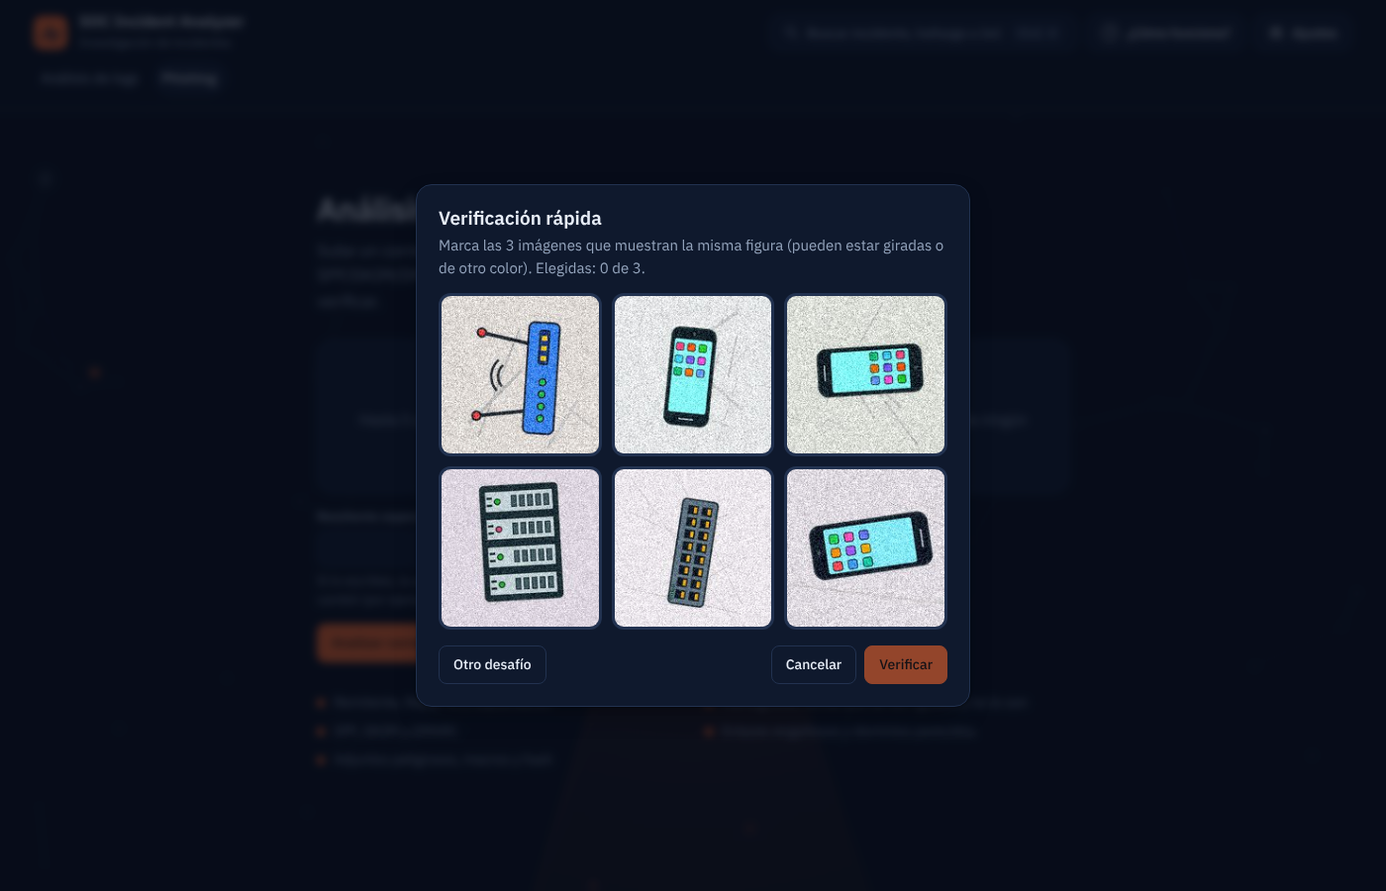
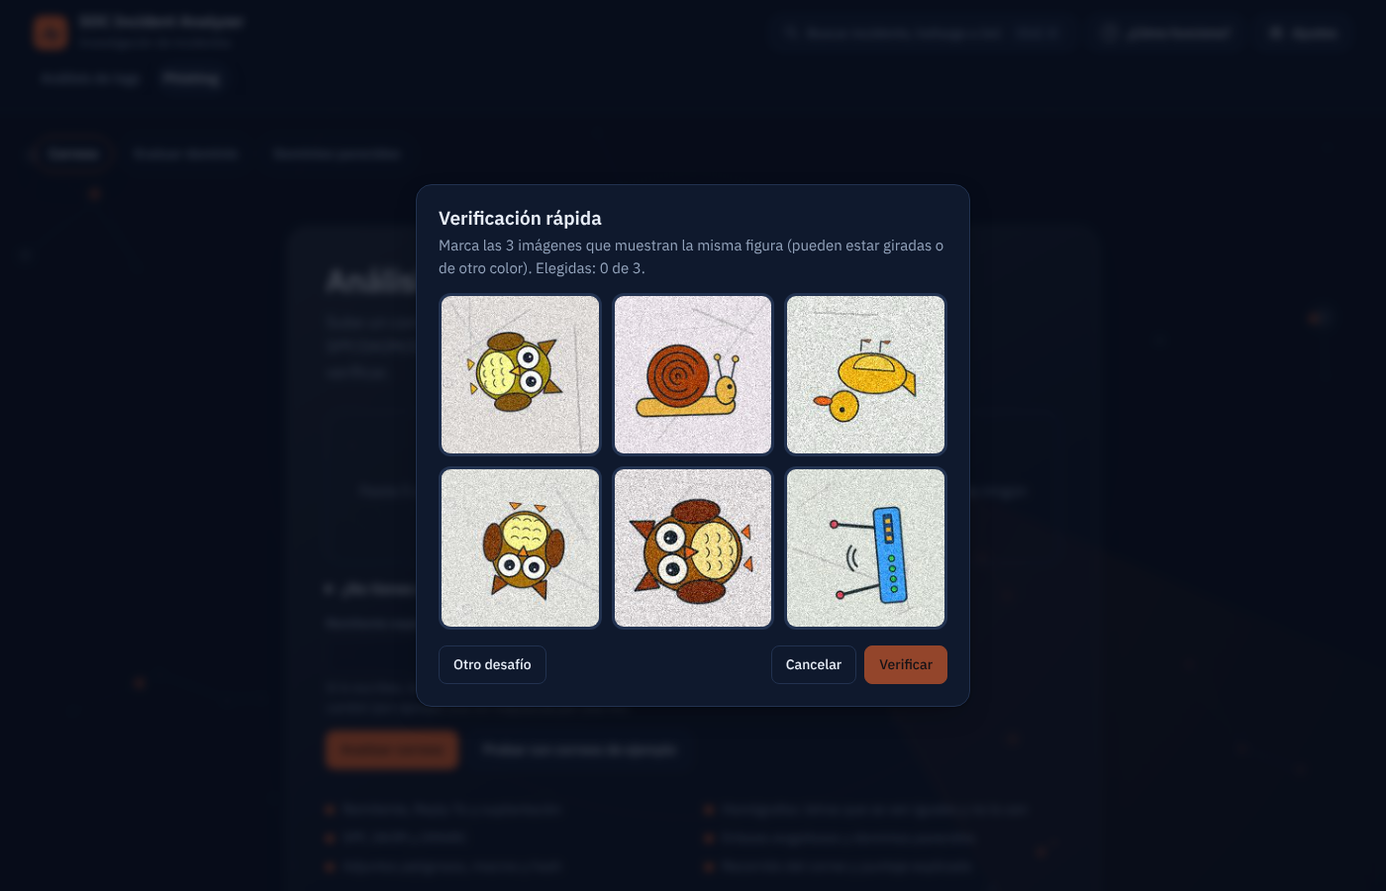
Add files via upload

diff --git a/README.md b/README.md
@@ -19,32 +19,9 @@ Proyecto personal, hecho para practicar el análisis de incidentes. Lo desarroll
 
 ## Cómo funciona
 
-1. **Motor de reglas determinista** (`backend/detection.py`, `detection_generic.py`): fuerza bruta y password spraying, movimiento lateral, escalamiento de privilegios, persistencia, LSASS, DCSync, Kerberoasting, exfiltración, evasión de defensas, ataques web y más; para Windows (por Event ID) y para otras fuentes (SSH, web, DNS, cloud).
+Un motor de reglas determinista detecta fuerza bruta, movimiento lateral, escalamiento de privilegios, persistencia, exfiltración, ataques web y más (Windows, SSH, web, DNS y nube). Cada hallazgo cita los `Log_ID` que lo sustentan, se agrupa en incidentes y se mapea a MITRE ATT&CK, con consultas para tu SIEM (Splunk, Sentinel, Sigma) y un informe en PDF o HTML. La IA y la reputación son opcionales y nunca cambian la criticidad. Detalle de cada parte: [docs/DESARROLLO.md](docs/DESARROLLO.md#cómo-funciona-detalle).
 
-2. Cada hallazgo cita los `Log_ID` que lo sustentan y explica por qué tiene esa criticidad.
-
-3. **Correlación**: los hallazgos se agrupan en incidentes cuando comparten IP externa o cuenta de actor.
-
-4. **IA (Claude, OpenAI, Gemini u Ollama local)** (`backend/ai.py`, `backend/ai_cloud.py`, `backend/ai_local.py`, opcional): solo redacta; no puede cambiar la criticidad y un verificador descarta lo inventado. Se elige el proveedor en la pestaña Informe. Sin clave ni Ollama, el informe usa plantillas.
-
-5. **PDF** (`backend/report.py`): resumen ejecutivo, hallazgos, evidencia, impacto, plan de acción y recomendaciones.
-6. **Informe HTML** (`backend/report_html.py`): el mismo contenido en un solo archivo que se abre sin conexión, con gráficos y animaciones (ver [Informe HTML](#informe-html)).
-
-6. **Reputación (opcional)** (`backend/intel.py`): VirusTotal y AbuseIPDB, solo con tu confirmación. Ver [más abajo](#reputación-de-ip-y-dominios-virustotal-y-abuseipdb) y [docs/REPUTACION.md](docs/REPUTACION.md).
-
-7. **MITRE ATT&CK** (`backend/attack.py`): técnicas con nombre oficial, matriz por táctica y capa para ATT&CK Navigator. Sin Internet.
-
-8. **Consultas para tu SIEM** (`backend/siemqueries.py`): Splunk (SPL), Sentinel (KQL) y reglas Sigma para los hallazgos de Windows; para SSH, web, DNS, Linux y nube, reglas Sigma.
-
-9. **Phishing** (`backend/phishing.py`): análisis estático de `.eml` (remitente, SPF/DKIM/DMARC, enlaces, homógrafos, adjuntos, ClickFix) con veredicto y puntaje.
-
-10. **Verificar el remitente en DNS** (opcional): comprueba SPF, clave DKIM y política DMARC con el DNS de hoy y lo compara con las cabeceras.
-
-Detalle de cada punto en [docs/DESARROLLO.md](docs/DESARROLLO.md#cómo-funciona-detalle).
-
-## Formatos de entrada
-
-Acepta Excel (`.xlsx`, `.xlsm`), CSV/TSV, JSON, NDJSON (también el formato de Splunk y las respuestas de Elasticsearch/OpenSearch) y `auth.log` de Linux en texto. Reconoce las columnas por nombre aunque cambie el idioma o el esquema (incluido Elastic ECS), y solo exige `Timestamp` y `Event_ID`. Tabla de formatos, columnas, marcas de tiempo y cada ejemplo de `sample_data/`: [docs/FORMATOS.md](docs/FORMATOS.md).
+Acepta Excel, CSV/TSV, JSON/NDJSON y `auth.log` de Linux; solo exige `Timestamp` y `Event_ID`. Formatos y ejemplos: [docs/FORMATOS.md](docs/FORMATOS.md).
 
 ## Resultado con el Excel de ejemplo
 
@@ -67,9 +44,9 @@ Las IP y los datos del ejemplo son sintéticos (rangos de documentación RFC 573
 
 ![Recorrido por el análisis de logs: panel, incidentes, hallazgos, eventos, indicadores e informe](img/gif/logs-demo.gif)
 
-**Phishing: análisis de correos de ejemplo, detalle con homógrafos y descarga del informe**
+**Phishing: análisis de correos de ejemplo, detalle con homógrafos y descarga del informe HTML**
 
-![Recorrido por el análisis de phishing: carga, tabla de correos, detalle del correo y desglose de caracteres](img/gif/phishing-demo.gif)
+![Recorrido por el análisis de phishing: carga, tabla de correos, detalle, desglose de caracteres y descarga del informe HTML](img/gif/phishing-demo.gif)
 
 **Evaluar dominio: nota de A a F con lo que resta cada comprobación (SPF, DKIM y DMARC)**
 
@@ -80,11 +57,9 @@ Las IP y los datos del ejemplo son sintéticos (rangos de documentación RFC 573
 ![Generación de variantes de un dominio y comprobación de registro en el DNS](img/gif/parecidos-demo.gif)
 
 <details>
-<summary>Ver los informes HTML generados (logs y phishing)</summary>
+<summary>Ver el informe HTML del análisis de logs</summary>
 
 ![Descarga del informe HTML del análisis de logs y recorrido por sus secciones](img/gif/informe-logs.gif)
-
-![Descarga del informe HTML del análisis de correos y recorrido por sus secciones](img/gif/informe-phishing.gif)
 
 </details>
 
@@ -107,7 +82,7 @@ python3 -m venv .venv
 source .venv/bin/activate
 pip install --require-hashes -r requirements.lock      # versiones exactas, verificadas por hash
 
-# 4. (Opcional) claves: Anthropic para la redacción con IA (de pago); VirusTotal y AbuseIPDB para reputación. Para IA local sin clave, instala Ollama y un modelo (ver [IA local](#ia-local-con-ollama-opcional))
+# 4. (Opcional) claves: Anthropic para la redacción con IA (de pago); VirusTotal y AbuseIPDB para reputación. Para IA local sin clave, instala Ollama y un modelo (ver [IA local](docs/IA-LOCAL.md))
 cp .env.example .env
 nano .env                       # ANTHROPIC_API_KEY=...  VT_API_KEY=...  ABUSEIPDB_API_KEY=...
 
@@ -132,119 +107,33 @@ docker compose up --build
 
 Abre http://127.0.0.1:8000. El puerto queda publicado solo en tu equipo (`127.0.0.1`) porque la app no tiene login. La imagen corre con un usuario sin privilegios y no incluye tu `.env`: las claves se pasan como variables de entorno.
 
-## Análisis de correos (phishing)
+## Más funciones
 
-En la pestaña **Phishing** (disponible desde el inicio, sin cargar logs) sube uno o varios `.eml`, o pulsa **Probar con correos de ejemplo** (`sample_data/correos/`: 8 maliciosos, entre ellos 4 con homógrafos, 1 con un recorrido anómalo y 2 legítimos que no deben alertar). Para obtener un `.eml`: en Outlook, Thunderbird o Gmail guarda el correo como `.eml` o usa «Descargar mensaje». Los `.msg` no se admiten. Si no puedes exportarlo, **pega las cabeceras** (el «origen del mensaje») en el cuadro de la pantalla de carga.
+- **Phishing:** análisis estático de `.eml` (SPF/DKIM/DMARC, enlaces, homógrafos, adjuntos) con veredicto y puntaje; evaluación de dominio y dominios parecidos. Nunca abre enlaces ni ejecuta adjuntos. [Detalle](docs/DESARROLLO.md#análisis-de-correos-phishing-detalle).
+- **Informe HTML:** un solo archivo que se abre sin conexión, con gráficos, modo claro/oscuro y versión imprimible, para logs y para phishing. [Detalle](docs/INFORME-HTML.md).
+- **Triaje asistido por IA:** recomienda Escalar, Probable falso positivo o Falta información; la severidad la fija siempre el motor. [Detalle](docs/TRIAGE.md).
+- **IA opcional:** Claude, OpenAI o Gemini con tu clave ([docs/PROVEEDORES-IA.md](docs/PROVEEDORES-IA.md)), o un modelo local con Ollama sin costo y sin enviar datos ([docs/IA-LOCAL.md](docs/IA-LOCAL.md)). Un modelo local pequeño sirve para practicar; para el informe formal se aconseja uno de mayor calidad.
+- **Reputación de IP y dominios:** VirusTotal y AbuseIPDB, solo con tu confirmación y sin enviar datos internos. [Detalle](docs/REPUTACION.md).
 
-Es análisis estático y determinista: no se abre ningún enlace ni se ejecuta ningún adjunto, y las URL se muestran «defangeadas». Incluye ataques homógrafos con desglose carácter por carácter, remitente esperado, recorrido `Received`, puntaje con factores visibles, evaluación de dominio (SPF/DKIM/DMARC) y dominios parecidos. Todo el detalle, con sus límites, está en [docs/DESARROLLO.md](docs/DESARROLLO.md#análisis-de-correos-phishing-detalle).
-
-## Triaje asistido por IA (opcional)
-
-Cada incidente trae una recomendación (**Escalar**, **Probable falso positivo** o **Falta información**) con motivos, confianza y «qué me haría cambiar de opinión»; el analista registra su decisión y una nota, que va al PDF. La severidad la fija siempre el motor y, si la IA quiere ser menos exigente en un incidente Crítico o Alto, se conserva la del motor y se marca el conflicto. Incluye un script para medir modelos. Detalle y límites: [docs/TRIAGE.md](docs/TRIAGE.md).
-
-## Informe HTML
-
-Junto al PDF, en la pestaña **Informe** está **Descargar informe HTML**: un único archivo que se abre con doble clic en cualquier navegador, sin conexión y sin instalar nada. Trae el mismo contenido que el PDF (resumen, incidentes con evidencia y plan de acción, IoC, reputación, triaje y decisiones del analista, correos sospechosos) más:
-
-- gráficos SVG (criticidad, eventos por ventana de 10 minutos con cada criticidad) y animaciones con [anime.js](https://animejs.com/) 3.2.2 incluido dentro del archivo (sin CDN);
-- diseño «glass» con modo claro y oscuro (sigue al sistema y se puede cambiar), adaptado al celular;
-- incidentes y hallazgos desplegables, filtro de indicadores y versión imprimible (botón «Imprimir / PDF»: se abre todo y se quitan los efectos);
-- las animaciones son opcionales: sin JavaScript o con «reducir movimiento» activado el informe se ve completo y quieto.
-
-El análisis de **Phishing** tiene su propio **Descargar informe HTML** (junto al PDF, en Phishing → Correos): el mismo contenido que su PDF, con el mismo diseño y las mismas garantías de seguridad.
-
-Seguridad: todo dato del archivo analizado, de la IA o de un correo se escapa al generar el HTML, y el propio informe lleva una política CSP que solo permite su script y su estilo (por hash) y ninguna conexión: aunque algo se escapara mal, el navegador no ejecutaría código. Como cualquier informe con datos del cliente, compártelo solo con quien corresponda.
-
-## Otros proveedores de IA: OpenAI y Gemini (opcional)
-
-Además de Claude, en las pestañas **Informe** e **Incidentes** puedes elegir **OpenAI** o **Gemini (Google)** con tu propia clave (`OPENAI_API_KEY`, `GEMINI_API_KEY` en `.env`, o pegada en el campo, que se usa solo en esa consulta y no se guarda). Las garantías son las mismas que con Claude: el motor fija la criticidad, el verificador descarta lo inventado y, si el proveedor falla, queda el informe por reglas. Las direcciones de los servicios están fijas en el servidor (el navegador no puede indicar otra URL) y los mensajes de error no repiten lo que responde el proveedor. Los nombres de modelo cambian seguido: hay uno por defecto y puedes escribir otro en el campo o fijarlo con `OPENAI_MODEL` / `GEMINI_MODEL`. Detalle en [docs/PROVEEDORES-IA.md](docs/PROVEEDORES-IA.md).
-
-## IA local con Ollama (opcional)
-
-Alternativa a Claude para quien no quiere pagar ni enviar datos a un tercero: en la pestaña **Informe** eliges **IA local (Ollama)** y uno de los modelos instalados (`ollama pull llama3.1:8b`). Mismas garantías que con Claude: la criticidad y la prioridad del plan de acción las fija el motor y el verificador descarta lo inventado. **Recomendación:** un modelo local pequeño (como llama3.1:8b) sirve como apoyo y para practicar, pero puede equivocarse al redactar y al recomendar el triaje; para el informe formal y el triaje con IA se aconseja un modelo de mayor calidad, como Claude (ver [docs/IA-LOCAL.md](docs/IA-LOCAL.md#cuándo-usar-cada-uno)). Sin GPU, un modelo de 8B tarda minutos por consulta. Configuración (`OLLAMA_HOST`, `OLLAMA_NUM_CTX`, `OLLAMA_TIMEOUT`), Docker y tiempos medidos: [docs/IA-LOCAL.md](docs/IA-LOCAL.md).
-
-## Reputación de IP y dominios (VirusTotal y AbuseIPDB)
-
-Opcional. El botón **Consultar reputación** enriquece los indicadores externos con VirusTotal y AbuseIPDB. Antes de consultar ves la lista exacta de lo que se enviará: solo IP públicas y dominios, nunca IP internas, cuentas ni contenido de los logs. No cambia la criticidad. Claves gratuitas, límites y detalle: [docs/REPUTACION.md](docs/REPUTACION.md).
-
-## Si algo falla
-
-Los mensajes de error más comunes (formato no soportado, cabecera no reconocida, archivo renombrado, límites de tamaño, claves rechazadas, Python anterior a 3.11, puerto ocupado) están con su causa y solución en [docs/DESARROLLO.md](docs/DESARROLLO.md#si-algo-falla). Si usas Ubuntu 22.04, necesitas Python 3.12: la tabla explica cómo instalarlo.
-
-## Pruebas
+## Pruebas y validación
 
 ```bash
-pip install --require-hashes -r requirements-dev.lock      # pytest, cobertura, bandit y pip-audit
+pip install --require-hashes -r requirements-dev.lock
 python -m pytest                                           # ~1.200 pruebas
 python -m pytest --cov=backend --cov-report=term-missing   # con cobertura (95 %)
 ```
 
-Atajos con `make` (Linux/macOS/WSL): `make install`, `make test`, `make test-cov`, `make lint`, `make audit` (bandit + pip-audit), `make start`, `make stop`, `make logs`. Con `make help` ves la lista completa.
+Hay pruebas unitarias, de integración, de extremo a extremo con navegador real y casos de actividad normal que no deben alertar; atajos con `make` (`make help`). Las reglas se midieron con datos que no escribí yo: las 11 IPs de fuerza bruta de un SSH real (Loghub) sin falsos positivos, la técnica correcta en 41 de 107 ataques de Windows (antes de calibrar: 13) y 86,4 % de 12.864 correos de phishing reales con criticidad Medio o más. Método y límites: [docs/VALIDACION.md](docs/VALIDACION.md); pruebas: [docs/DESARROLLO.md](docs/DESARROLLO.md#pruebas).
 
-Hay pruebas unitarias, de integración (API con entradas hostiles, capa de IA con modelo simulado, inyección de prompts) y de extremo a extremo con un navegador real (Playwright), además de casos de actividad normal que no deben alertar. Qué cubre cada archivo: [docs/DESARROLLO.md](docs/DESARROLLO.md#pruebas).
+## Privacidad y seguridad
 
-## Validación de las reglas
+La app corre en tu equipo y no envía telemetría; solo salen datos si activas la IA de un proveedor, la consulta DNS o la reputación ([docs/PRIVACIDAD.md](docs/PRIVACIDAD.md)). Los datos del archivo se tratan como no confiables (escape, CSP estricta, tipo por contenido), las claves nunca se guardan y la IA no puede cambiar la criticidad. Contenedor sin privilegios y CI con `bandit`, `pip-audit` y Trivy: [detalle](docs/DESARROLLO.md#seguridad-detalle) y [SECURITY.md](SECURITY.md). Para colaborar: [CONTRIBUTING.md](CONTRIBUTING.md).
 
-Las reglas se midieron con datos que no escribí yo. Método, resultados y límites en [docs/VALIDACION.md](docs/VALIDACION.md):
+## Si algo falla, límites y estructura
 
-- **SSH real (Loghub):** de 11 IPs que atacaron con fuerza bruta, la app detectó las 11, sin falsos positivos.
-
-- **107 ataques de Windows (OTRF Security-Datasets):** la técnica correcta en 41 (antes de calibrar: 13), otra técnica en 26 y ninguna en 37; la cobertura es limitada y está documentada.
-
-- **Phishing real (12.864 correos de phishing_pot):** 86,4 % con criticidad Medio o más y 62,5 % Alto o más (86,3 % y 62,4 % en los 11.362 correos no usados para ajustar). Correo legítimo: 0 falsos positivos en 39 correos reales (muestra pequeña).
-
-- **Tráfico normal:** 35 casos de actividad corriente sin hallazgos.
-
-Se pueden repetir con `scripts/validar_datasets.py`.
-
-## Privacidad: qué datos salen de tu equipo
-
-La app corre en tu equipo y no envía telemetría. Solo salen datos si tú activas una de estas funciones:
-
-| Función | Qué se envía | A quién |
-|---|---|---|
-| **Redacción con IA de Anthropic** (requiere clave) | Título, criticidad, métricas y filas de evidencia de cada hallazgo (puede incluir usuarios, equipos e IP reales); no el nombre del cliente ni el archivo completo | Anthropic |
-| **Consulta DNS** (Evaluar dominio, Dominios parecidos) | Solo nombres de dominio, por DNS sobre HTTPS; `DNS_LOOKUPS=off` la desactiva | Cloudflare (si falla, Google) |
-| **Reputación** (requiere clave) | Solo IP públicas, dominios y hash SHA-256 de adjuntos, que confirmas en pantalla | VirusTotal y AbuseIPDB |
-
-Con **Ollama** en tu propio equipo los datos no salen de él. Antes de activar la IA de un proveedor externo (Anthropic, OpenAI o Google), asegúrate de tener permiso para compartir esos datos con un tercero. Detalle completo: [docs/PRIVACIDAD.md](docs/PRIVACIDAD.md).
-
-## Seguridad
-
-- Las claves (Anthropic, VirusTotal, AbuseIPDB) viven en `.env` (excluido de Git) o se pegan en la interfaz; nunca se guardan, se registran ni se devuelven al navegador.
-
-- **Datos del archivo no confiables:** se escapan antes de mostrarse y de entrar al PDF, la CSP es estricta (`script-src 'self'`), el tipo del archivo se decide por su contenido y la app nunca ejecuta lo que sube el usuario.
-
-- **Capa de IA:** los logs viajan como datos no confiables; aunque un modelo obedeciera una instrucción escondida, no puede cambiar la criticidad y lo inventado se descarta (lo comprueban pruebas automáticas).
-
-- **Opcionales:** clave de acceso (`APP_ACCESS_TOKEN`), captcha local (`CAPTCHA=on`) y documentación de la API desactivada por defecto.
-
-- **Contenedor y CI:** imagen sin privilegios, de solo lectura y con dependencias verificadas por hash; el CI corre pruebas, navegador, `bandit`, `pip-audit` y Trivy, y publica un SBOM (CycloneDX) de la imagen.
-
-- Detalle: [docs/DESARROLLO.md](docs/DESARROLLO.md#seguridad-detalle). Alcance, límites y cómo reportar una vulnerabilidad: [SECURITY.md](SECURITY.md). Para colaborar: [CONTRIBUTING.md](CONTRIBUTING.md).
-
-## Límites
-
-- Si las marcas de tiempo no traen zona horaria, se usan tal cual; si la traen, se convierten a UTC.
-
-- Los rangos 192.0.2.0/24, 198.51.100.0/24 y 203.0.113.0/24 (documentación) se tratan como externos.
-
-- El mapeo MITRE ATT&CK es orientativo: indica técnicas consistentes con la evidencia, no prueba su uso, y no cambia la criticidad. La reputación de IP es opcional y orientativa; no hay geolocalización propia.
-
-- Los archivos de sesión viven en memoria (máx. 10) y se pierden al reiniciar el servidor.
-
-## Estructura
-
-```
-backend/      parser, reglas de detección, correlación, phishing, IA, reputación, MITRE ATT&CK, informe PDF y API (FastAPI)
-frontend/     interfaz web sin build (HTML, CSS y JS)
-tests/        unit, integration y e2e
-scripts/      validación con datasets públicos y regeneración de datos
-sample_data/  exports y correos .eml de ejemplo
-docs/         detalle: DESARROLLO, FORMATOS, IA-LOCAL, REPUTACION, PRIVACIDAD y VALIDACION
-```
-
-Árbol completo, con scripts y archivos de configuración: [docs/DESARROLLO.md](docs/DESARROLLO.md#estructura).
+- **Errores comunes** (formato, claves, Python 3.12, puerto ocupado): [docs/DESARROLLO.md](docs/DESARROLLO.md#si-algo-falla).
+- **Límites** (zona horaria, rangos de documentación, MITRE orientativo, sesiones en memoria): [docs/DESARROLLO.md](docs/DESARROLLO.md#límites).
+- **Estructura:** `backend/` (API FastAPI y motor), `frontend/` (interfaz sin build), `tests/`, `scripts/`, `sample_data/` y `docs/`. Árbol completo: [docs/DESARROLLO.md](docs/DESARROLLO.md#estructura).
 
 ## Licencia
 

diff --git a/docs/DESARROLLO.md b/docs/DESARROLLO.md
@@ -2,7 +2,7 @@
 
 Material que estaba en el README y se movió acá para que la portada sea corta. No se quitó nada: el README enlaza a cada parte.
 
-Contenido: [Cómo funciona](#cómo-funciona-detalle) · [Análisis de correos](#análisis-de-correos-phishing-detalle) · [Si algo falla](#si-algo-falla) · [Pruebas](#pruebas) · [Seguridad](#seguridad-detalle) · [Estructura](#estructura)
+Contenido: [Cómo funciona](#cómo-funciona-detalle) · [Análisis de correos](#análisis-de-correos-phishing-detalle) · [Si algo falla](#si-algo-falla) · [Pruebas](#pruebas) · [Seguridad](#seguridad-detalle) · [Límites](#límites) · [Estructura](#estructura)
 
 ## Cómo funciona (detalle)
 
@@ -116,6 +116,10 @@ Atajos con `make` (Linux/macOS/WSL): `make install`, `make test`, `make test-cov
 
 - **Captcha opcional (`CAPTCHA=on`):** antes de analizar un archivo de logs o un `.eml`, la persona resuelve un captcha **local**: no usa servicios de terceros, no necesita internet ni claves. Hay dos tipos y el servidor sortea uno en cada desafío (`CAPTCHA_TYPE=imagenes`, `rompecabezas` o `aleatorio`, el valor por defecto). **Imágenes:** marcar las 3 de 6 que muestran la misma figura (dispositivos de red y animales, giradas y con color, fondo y ruido al azar).
 
+  ![Captcha de imágenes: marcar las 3 que muestran la misma figura](../img/Captcha-imagenes.png)
+
+  ![Captcha de rompecabezas: deslizar la pieza hasta el hueco](../img/Captcha-rompecabezas.png)
+
 - **Rompecabezas:** deslizar una pieza hasta el hueco de la imagen (ratón, dedo o flechas del teclado); se acepta con unos píxeles de tolerancia y se comprueba, de forma básica, que el arrastre sea un movimiento y no un salto. La respuesta solo vive en el servidor, cada desafío admite un intento y caduca, y cada análisis pide su propio captcha (el pase es de un solo uso y dura segundos; ver los resultados no depende de ningún tiempo). Está apagado por defecto (en tu VM no estorba) y no protege los datos de ejemplo. Frena bots genéricos, no a un atacante dirigido: no sustituye a la clave de acceso. Las figuras son originales y se regeneran con `python scripts/build_captcha_assets.py`.
 
 - **Clave de acceso opcional:** define `APP_ACCESS_TOKEN` (se recomiendan 16 caracteres o más) y toda la API exige `Authorization: Bearer <clave>`; la interfaz la pide al entrar. Es una sola clave compartida, no un sistema de usuarios, y debe servirse detrás de HTTPS. Sin ella, la app no tiene login: úsala en local.
@@ -127,6 +131,16 @@ Atajos con `make` (Linux/macOS/WSL): `make install`, `make test`, `make test-cov
 - Integración continua: pruebas con cobertura mínima, pruebas de navegador (Playwright), `bandit`, `pip-audit` y Trivy sobre la imagen.
 
 - Alcance, límites y cómo reportar una vulnerabilidad: [SECURITY.md](../SECURITY.md).
+
+## Límites
+
+- Si las marcas de tiempo no traen zona horaria, se usan tal cual; si la traen, se convierten a UTC.
+
+- Los rangos 192.0.2.0/24, 198.51.100.0/24 y 203.0.113.0/24 (documentación) se tratan como externos.
+
+- El mapeo MITRE ATT&CK es orientativo: indica técnicas consistentes con la evidencia, no prueba su uso, y no cambia la criticidad. La reputación de IP es opcional y orientativa; no hay geolocalización propia.
+
+- Los archivos de sesión viven en memoria (máx. 10) y se pierden al reiniciar el servidor.
 
 ## Estructura
 

diff --git a/CHANGELOG.md b/CHANGELOG.md
@@ -11,9 +11,13 @@ Formato basado en [Keep a Changelog](https://keepachangelog.com/es-ES/1.1.0/) y 
 - El ensamblado del documento (CSS, JS con anime.js y CSP) pasó a una función común para ambos informes.
 - Pruebas: contenido, archivo sin recursos externos y CSP coincidente, campos hostiles, reputación, endpoint (404, solo POST, PDF intacto) y un e2e que lo descarga y lo abre sin errores.
 
+### Documentación: README más corto
+- El README pasa de unas 250 a unas 145 líneas: cada función (phishing, informe HTML, triaje, IA, reputación, privacidad, seguridad, validación) queda en una o dos oraciones con enlace al detalle. No se quitó información.
+- Nuevo `docs/INFORME-HTML.md` (texto completo de la sección) y la sección «Límites» pasó a `docs/DESARROLLO.md`.
+
 ### Documentación: demostraciones nuevas en GIF
-- Los seis GIF del README se rehicieron con el diseño nuevo (glass y animaciones): análisis de logs, phishing, evaluar dominio, dominios parecidos y los informes HTML de logs y de phishing. Se recortaron la barra del navegador y la ventana de la VM, y se dejaron en bucle.
-- Se eliminaron las 22 capturas PNG de `img/` (eran del diseño anterior) y la galería `docs/CAPTURAS.md`; el README ya no tiene la sección «Capturas». El informe PDF de ejemplo sigue en `examples/`.
+- Los GIF del README se rehicieron con el diseño nuevo (glass y animaciones): análisis de logs, phishing (con la descarga y vista del informe HTML), evaluar dominio, dominios parecidos y el informe HTML de logs. Se recortaron la barra del navegador y la ventana de la VM, y se dejaron en bucle.
+- Se eliminaron las capturas PNG de `img/` (eran del diseño anterior) y la galería `docs/CAPTURAS.md`; el README ya no tiene la sección «Capturas». Se conservaron las dos del captcha (rehechas con el diseño nuevo), ahora enlazadas desde `docs/DESARROLLO.md`. El informe PDF de ejemplo sigue en `examples/`.
 
 ## [1.10.2] - 2026-11-07
 

diff --git a/docs/INFORME-HTML.md b/docs/INFORME-HTML.md
@@ -1,0 +1,14 @@
+# Informe HTML
+
+Volver al [README](../README.md).
+
+Junto al PDF, en la pestaña **Informe** está **Descargar informe HTML**: un único archivo que se abre con doble clic en cualquier navegador, sin conexión y sin instalar nada. Trae el mismo contenido que el PDF (resumen, incidentes con evidencia y plan de acción, IoC, reputación, triaje y decisiones del analista, correos sospechosos) más:
+
+- gráficos SVG (criticidad, eventos por ventana de 10 minutos con cada criticidad) y animaciones con [anime.js](https://animejs.com/) 3.2.2 incluido dentro del archivo (sin CDN);
+- diseño «glass» con modo claro y oscuro (sigue al sistema y se puede cambiar), adaptado al celular;
+- incidentes y hallazgos desplegables, filtro de indicadores y versión imprimible (botón «Imprimir / PDF»: se abre todo y se quitan los efectos);
+- las animaciones son opcionales: sin JavaScript o con «reducir movimiento» activado el informe se ve completo y quieto.
+
+El análisis de **Phishing** tiene su propio **Descargar informe HTML** (junto al PDF, en Phishing → Correos): el mismo contenido que su PDF, con el mismo diseño y las mismas garantías de seguridad.
+
+Seguridad: todo dato del archivo analizado, de la IA o de un correo se escapa al generar el HTML, y el propio informe lleva una política CSP que solo permite su script y su estilo (por hash) y ninguna conexión: aunque algo se escapara mal, el navegador no ejecutaría código. Como cualquier informe con datos del cliente, compártelo solo con quien corresponda.
